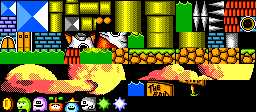
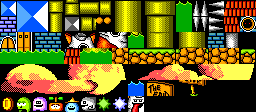
All the rooms finished

Changed region(s): [[0.5, 0.8571, 0.5625, 1.0]]

diff --git a/src/boss.c b/src/boss.c
@@ -1,0 +1,165 @@
+// "Boss" (header)
+// (c) 2018 Jani Nykänen
+
+#include "boss.h"
+
+#include "engine/graph.h"
+
+#include "stdlib.h"
+#include "math.h"
+
+// Bitmaps
+static BITMAP* bmpRocket;
+
+// Move axis
+static void boss_move_axis( short* coord,  short* target, short speed) {
+
+    if(*target > *coord) {
+
+        *coord += speed ;
+        if(*coord >= *target) {
+
+            *coord = *target;
+        }
+    }
+    else if(*target < *coord) {
+
+        *coord -= speed ;
+        if(*coord  <= *target) {
+
+            *coord = *target;
+        }
+    }
+}
+
+
+// Move
+static void boss_move(BOSS* b, PLAYER* pl) {
+
+    // Set target
+    b->target.y = 140;
+    b->target.x = 200 * (pl->pos.x < b->pos.x ? -1 : 1);
+
+    // Update axes
+    boss_move_axis(&b->speed.x, &b->target.x, 4);
+    boss_move_axis(&b->speed.y, &b->target.y, 8);
+
+    // Move position
+    b->pos.x += b->speed.x;
+    b->pos.y += b->speed.y;
+
+    // Limit
+    if(b->pos.x/100-16 < 48) {
+
+        b->pos.x = 64 * 100;
+        b->speed.x = abs(b->speed.x);
+    }
+    else if(b->pos.x/100+16 > 320-48) {
+
+        b->pos.x = (320-64) * 100;
+        b->speed.x = -abs(b->speed.x);
+    }
+
+    // Floor collision
+    if(b->pos.y/100 >= 10*16-8 && b->speed.y > 0) {
+
+        b->pos.y = 100*(10*16-8);
+        b->speed.y = -(200 + (b->jmpHeight % 4) * 50);
+
+        b->jmpHeight += 7;
+    }
+}
+
+
+// Boss-player collision
+static void boss_player_collision(BOSS* b, PLAYER* pl) {
+
+    short w = 12;
+    short h = 28;
+
+    short px = pl->pos.x / 100;
+    short py = pl->pos.y / 100;
+
+    short ex = b->pos.x / 100;
+    short ey = b->pos.y / 100;
+    
+    if(px+8 > ex-w && px-8 < ex+w && py > ey-h && py-16 < ey-(16-h)) {
+
+        pl_kill(pl);
+    }
+}
+
+
+// Initialize boss
+void boss_init() {
+
+    // Load bitmaps
+    bmpRocket = load_bitmap("ASSETS/BITMAPS/ROCKET.BIN");
+}
+
+
+// Create an boss
+void boss_create(BOSS* b, VEC2 pos) {
+
+    b->pos = pos;
+    b->pos.x *= 100;
+    b->pos.y *= 100;
+    b->speed = vec2(0,0);
+    b->target = b->speed;
+    b->exist = true;
+    b->spr = create_sprite(32, 32);
+    b->jmpHeight = 0;
+    b->wait = true;
+}
+
+
+// Update an boss
+void boss_update(BOSS* b, PLAYER* pl) {
+
+    if(b->exist == false) return;
+
+    // Move
+    if(!b->wait) {
+
+        boss_move(b, pl);
+    }
+    else if(pl->pos.x/100 -8 > 32) {
+
+        b->wait = false;
+    }
+
+    // Animate
+    spr_animate(&b->spr, b->target.x < 0 ? 0 : 1,0,3, 6);
+
+    // Player collision
+    boss_player_collision(b, pl);
+}
+
+
+// Pre-draw an boss
+void boss_pre_draw(BOSS* b) {
+
+    short bx, by;
+
+    if(b->exist == false) return;
+
+    bx = b->pos.x / 100;
+    by = b->pos.y / 100;
+
+    fill_rect(bx-16,by-32, 32,32, 0);
+
+}
+
+
+// Draw an boss
+void boss_draw(BOSS* b) {
+
+    short bx, by;
+
+    if(b->exist == false) return;
+
+    bx = b->pos.x / 100;
+    by = b->pos.y / 100;
+
+    spr_draw(&b->spr,bmpRocket,bx-16,by-32, FLIP_NONE);
+}

diff --git a/src/game.c b/src/game.c
@@ -8,6 +8,7 @@
 #include "info.h"
 #include "coin.h"
 #include "enemy.h"
+#include "boss.h"
 
 #include "engine/sys.h"
 #include "engine/graph.h"
@@ -27,6 +28,7 @@
 static PLAYER player;
 static COIN coins[COIN_COUNT];
 static ENEMY enemies[ENEMY_COUNT];
+static BOSS boss;
 
 
 // Draw coins
@@ -62,6 +64,9 @@ static void game_update() {
         enemy_player_collision(&enemies[i], &player);
     }
 
+    // Update boss
+    boss_update(&boss, &player);
+
     // Update info
     info_update();
 
@@ -90,6 +95,9 @@ static void game_pre_draw() {
         enemy_pre_draw(&enemies[i]);
     }
 
+    // Pre-draw boss
+    boss_pre_draw(&boss);
+
     // Pre-draw moving objects
     pl_pre_draw(&player);
 }
@@ -105,6 +113,9 @@ static void game_draw() {
 
         enemy_draw(&enemies[i]);
     }
+
+    // Draw boss
+    boss_draw(&boss);
 
     // Draw player
     pl_draw(&player);
@@ -138,6 +149,7 @@ void game_init() {
     info_init();
     coin_init();
     enemy_init();
+    boss_init();
 
     // Reset
     game_reset();
@@ -193,10 +205,19 @@ void game_add_enemy(VEC2 pos, char type) {
 }
 
 
+// Add the boss to the screen
+void game_add_boss(VEC2 pos) {
+
+    boss_create(&boss, pos);
+}
+
+
 // Reset game
 void game_reset() {
 
     short i = 0;
+    
+    // Destroy coins
     for(; i < COIN_COUNT; ++ i) {
 
         coins[i].pos = vec2(-1,-1);
@@ -204,10 +225,14 @@ void game_reset() {
         coins[i].die = false;
     }
 
+    // Destroy enemies
     for(i=0; i < ENEMY_COUNT; ++ i) {
 
         enemies[i].exist = false;
     }
+
+    // Destroy boss
+    boss.exist = false;
 }
 
 

diff --git a/src/boss.h b/src/boss.h
@@ -1,0 +1,43 @@
+// "Boss" (header)
+// (c) 2018 Jani Nykänen
+
+#ifndef __BOSS__
+#define __BOSS__
+
+#include "player.h"
+
+#include "engine/vector.h"
+#include "engine/sprite.h"
+
+#include "stdbool.h"
+
+// Boss type
+typedef struct {
+
+    VEC2 pos;
+    VEC2 speed;
+    VEC2 target;
+    short jmpHeight;
+    SPRITE spr;
+    
+    bool exist;
+    bool wait;
+}
+BOSS;
+
+// Initialize boss
+void boss_init();
+
+// Create an boss
+void boss_create(BOSS* e, VEC2 pos);
+
+// Update an boss
+void boss_update(BOSS* e, PLAYER* pl);
+
+// Pre-draw an boss
+void boss_pre_draw(BOSS* e);
+
+// Draw an boss
+void boss_draw(BOSS* e);
+
+#endif // __BOSS__

diff --git a/src/stage.c b/src/stage.c
@@ -105,6 +105,11 @@ void stage_load(unsigned short index) {
                     game_add_enemy(vec2(x * 16 +8, y * 16 -8 +16), t-98);
                     break;
 
+                case 105:
+
+                    game_add_boss(vec2(x * 16 +8, y * 16 -8 +16));
+                    break;
+
                 default: 
                     break;
                 }

diff --git a/src/coin.c b/src/coin.c
@@ -51,7 +51,7 @@ void coin_player_collision(PLAYER* pl, COIN* c) {
     if(!c->exist) return;
 
     if(px+8 > c->pos.x-4 && px-8 < c->pos.x+12 &&
-       py > c->pos.y-4 && py-16 < c->pos.y+12) {
+       py > c->pos.y-2 && py-16 < c->pos.y+14) {
 
          c->die = true;
          c->exist = false;

diff --git a/src/game.h b/src/game.h
@@ -18,6 +18,9 @@ void game_add_coin(VEC2 pos);
 // Add an enemy
 void game_add_enemy(VEC2 pos, char type);
 
+// Add the boss to the screen
+void game_add_boss(VEC2 pos);
+
 // Reset game
 void game_reset();
 
